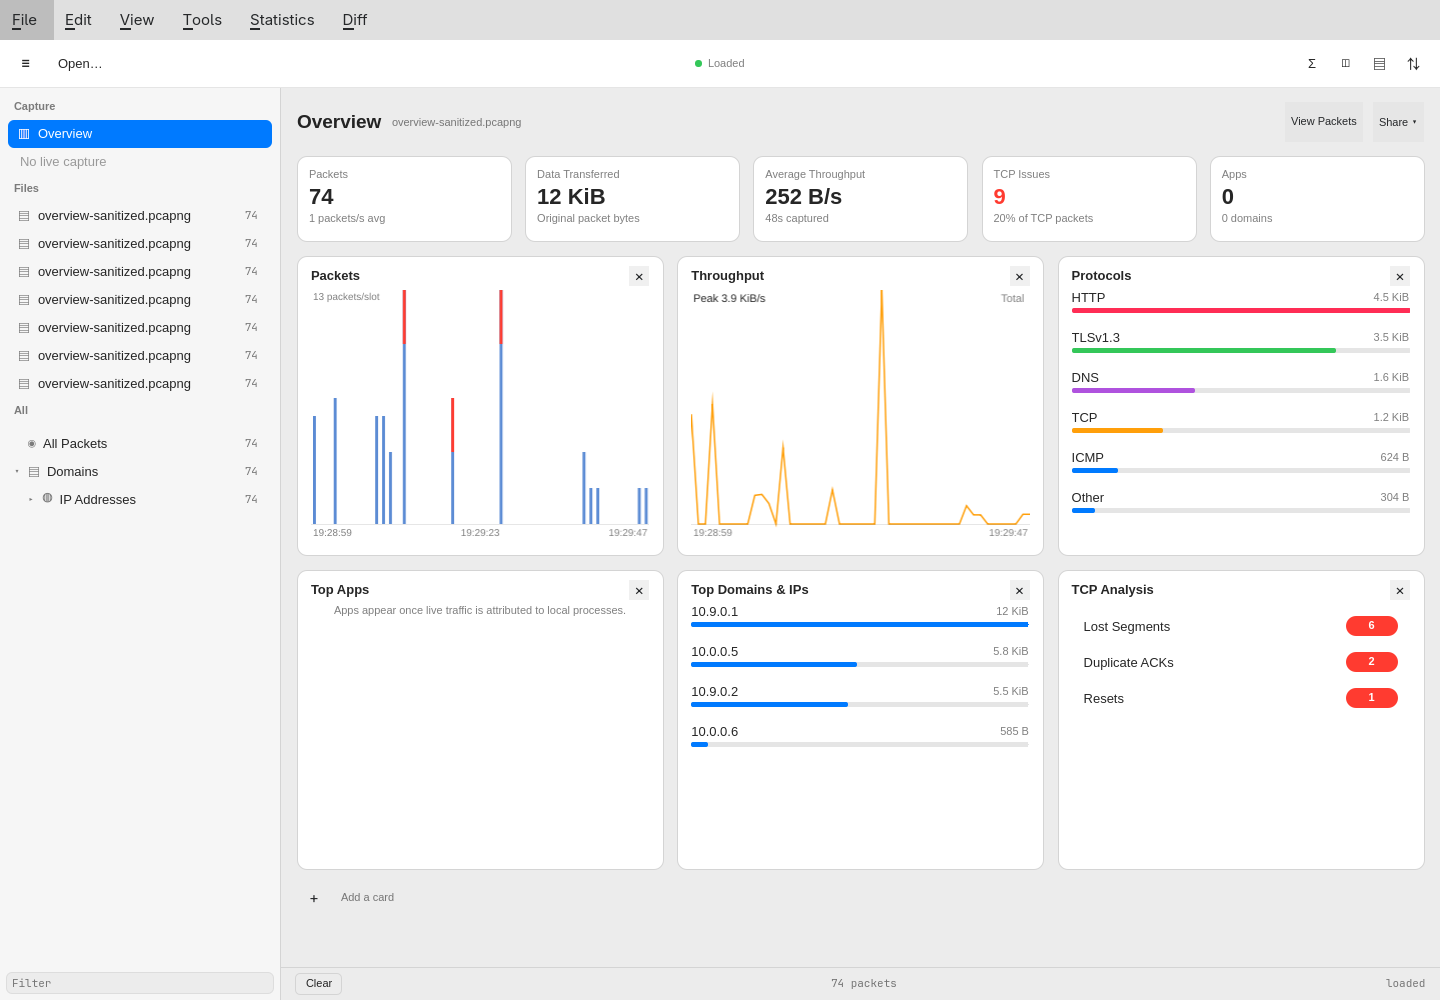
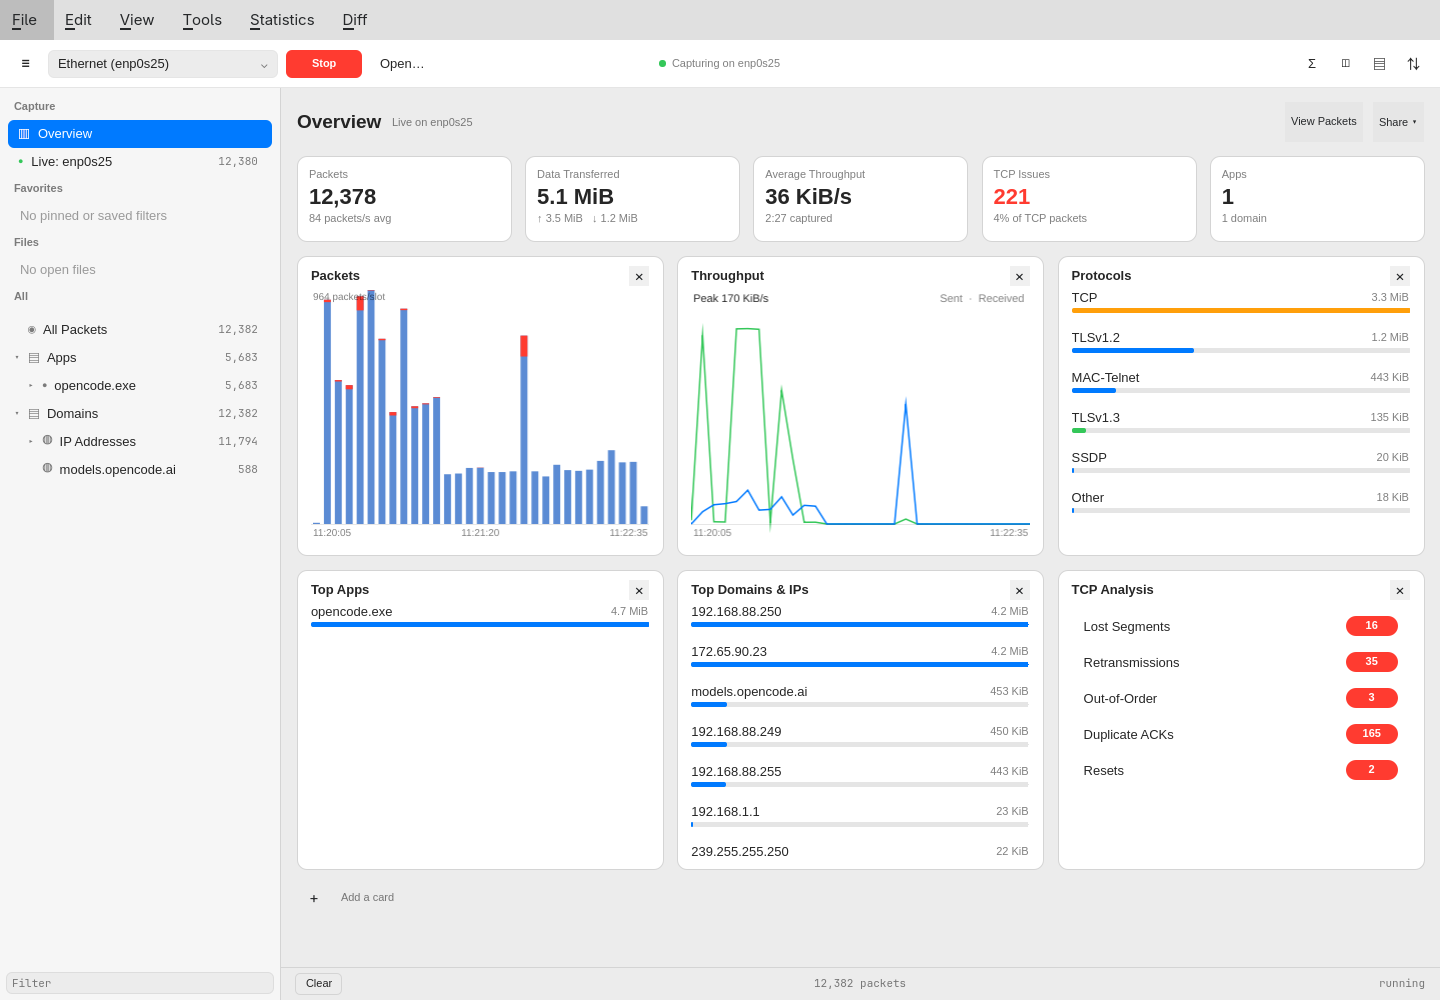
Docs: live-capture overview cover and filter documentation
The cover now comes from a 2.5-minute live Ethernet capture, so Top Apps and
endpoint ranking are populated by real process attribution. Documents quick
filters, the display filter, the structured builder and sidebar favorites,
with a builder screenshot over the sanitized fixture.

diff --git a/README.md b/README.md
@@ -12,9 +12,9 @@ bytes-per-second, protocol share, top endpoints and TCP analysis counts, all
 computed from the loaded capture's buffer. Cards like *Top Domains & IPs* and
 *TCP Analysis* are click-through: selecting a row applies the matching display
 filter in the packet table. The **Share** header action exports the dashboard
-as Markdown (Copy / Save, mirroring upstream). Data on the cover is a
-sanitized synthetic capture
-(10.x / 203.0.113.x addresses, `example.com` names).
+as Markdown (Copy / Save, mirroring upstream). The cover is a live Ethernet
+capture taken after a couple of minutes of ordinary traffic, so the dashboard
+shows real process attribution (Top Apps) and endpoint ranking.
 
 ## Install (Omarchy plugin)
 
@@ -175,6 +175,25 @@ The packet table remains one click away via the segmented
   widths; widths persist across launches.
 - Right-clicking a protocol-detail row in the inspector offers
   **Create Column**, adding a bounded table column backed by that field.
+
+## Filters
+
+- **Quick filters** — the chip row above the table narrows every request (TCP,
+  UDP, DNS, HTTP, TLS, WebSocket, Client/Server Hello, Errors). Chip
+  predicates are evaluated by the daemon per request and stack on top of the
+  display filter.
+- **Display filter** — the field on the right accepts Wireshark syntax
+  (`tcp.port == 80`, `http.host contains "example.com"`); Enter applies it and
+  the × clears it.
+- **Builder** — opens a row editor for up to five field/condition/value
+  conditions joined with AND or OR. It covers addresses, ports, HTTP host,
+  DNS name, TLS server name, protocol, frame text and packet length, previews
+  the generated expression, and applies it with Enter or **Apply**.
+- **Favorites** — pin the current expression with ☆ or save it under a name
+  with ⊕. Pinned and saved filters live in the sidebar's **Favorites** group
+  and apply with one click; the row's × removes them.
+
+![Structured filter builder](docs/filter-builder.png)
 
 ## Diff
 
